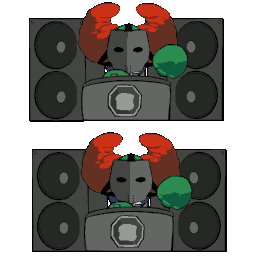
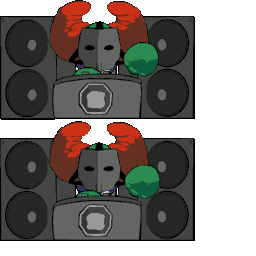
menu ticky

diff --git a/src/character/mticky.c b/src/character/mticky.c
@@ -45,29 +45,29 @@ typedef struct
 
 //MTicky character definitions
 static const CharFrame char_MTicky_frame[] = {
-	{MTicky_ArcMain_Ticky0, {  0,   0, 256, 128}, { 40,  69}}, //0
-	{MTicky_ArcMain_Ticky0, {  0, 128, 256, 128}, { 40,  73}}, //1
-	{MTicky_ArcMain_Ticky1, {  0,   0, 256, 128}, { 40,  69}}, //2 
-	{MTicky_ArcMain_Ticky1, {  0, 128, 256, 128}, { 40,  73}}, //3
-	{MTicky_ArcMain_Ticky2, {  0,   0, 256, 128}, { 40,  69}}, //4
-	{MTicky_ArcMain_Ticky2, {  0, 128, 256, 128}, { 40,  73}}, //5
-	{MTicky_ArcMain_Ticky3, {  0,   0, 256, 128}, { 40,  69}}, //6 
-	{MTicky_ArcMain_Ticky3, {  0, 128, 256, 128}, { 40,  73}}, //7
-	{MTicky_ArcMain_Ticky4, {  0,   0, 256, 128}, { 40,  69}}, //8 
-	{MTicky_ArcMain_Ticky4, {  0, 128, 256, 128}, { 40,  73}}, //9
-	{MTicky_ArcMain_Ticky5, {  0,   0, 256, 128}, { 40,  69}}, //10
-	{MTicky_ArcMain_Ticky5, {  0, 128, 256, 128}, { 40,  73}}, //11
+	{MTicky_ArcMain_Ticky0, {  0,   0, 207, 111}, { 102, 111}}, //0
+	{MTicky_ArcMain_Ticky0, {  0, 112, 200, 113}, { 99, 113}}, //1
+	{MTicky_ArcMain_Ticky1, {  0,   0, 194, 116}, { 96, 116}}, //2 
+	{MTicky_ArcMain_Ticky1, {  0, 117, 195, 118}, { 96, 118}}, //3
+	{MTicky_ArcMain_Ticky2, {  0,   0, 195, 120}, { 96, 120}}, //4
+	{MTicky_ArcMain_Ticky2, {  1, 122, 194, 121}, { 96, 121}}, //5
+	{MTicky_ArcMain_Ticky3, {  0,   0, 195, 122}, { 96, 122}}, //6 
+	{MTicky_ArcMain_Ticky3, {  0, 123, 195, 122}, { 96, 122}}, //7
+	{MTicky_ArcMain_Ticky4, {  0,   0, 195, 122}, { 96, 121}}, //8 
+	{MTicky_ArcMain_Ticky4, {  0, 123, 195, 122}, { 96, 120}}, //9
+	{MTicky_ArcMain_Ticky5, {  0,   0, 195, 114}, { 96, 114}}, //10
+	{MTicky_ArcMain_Ticky5, {  0, 115, 207, 111}, {102, 111}}, //11
 	
-	{MTicky_ArcMain_Ticky6, {  0,   0, 256, 128}, { 40,  69}}, //12 
-	{MTicky_ArcMain_Ticky6, {  0, 128, 256, 128}, { 40,  73}}, //13
-	{MTicky_ArcMain_Ticky7, {  0,   0, 256, 128}, { 40,  69}}, //14
-	{MTicky_ArcMain_Ticky7, {  0, 128, 256, 128}, { 40,  73}}, //15
-	{MTicky_ArcMain_Ticky8, {  0,   0, 256, 128}, { 40,  69}}, //16 
-	{MTicky_ArcMain_Ticky8, {  0, 128, 256, 128}, { 40,  73}}, //17
-	{MTicky_ArcMain_Ticky9, {  0,   0, 256, 128}, { 40,  69}}, //18 
-	{MTicky_ArcMain_Ticky9, {  0, 128, 256, 128}, { 40,  73}}, //19
-	{MTicky_ArcMain_Ticky10, {  0,   0, 256, 128}, { 40,  69}}, //20 
-	{MTicky_ArcMain_Ticky10, {  0, 128, 256, 128}, { 40,  73}}, //21
+	{MTicky_ArcMain_Ticky6, {  0,   0, 201, 113}, { 99, 113}}, //12 
+	{MTicky_ArcMain_Ticky6, {  0, 114, 194, 116}, { 96, 116}}, //13
+	{MTicky_ArcMain_Ticky7, {  0,   0, 195, 120}, { 96, 120}}, //14
+	{MTicky_ArcMain_Ticky7, {  0, 121, 195, 120}, { 96, 120}}, //15
+	{MTicky_ArcMain_Ticky8, {  0,   0, 194, 121}, { 96, 121}}, //16 
+	{MTicky_ArcMain_Ticky8, {  0, 122, 195, 122}, { 96, 122}}, //17
+	{MTicky_ArcMain_Ticky9, {  0,   0, 195, 121}, { 96, 121}}, //18 
+	{MTicky_ArcMain_Ticky9, {  0, 122, 195, 122}, { 96, 122}}, //19
+	{MTicky_ArcMain_Ticky10, {  0,   0, 194, 121}, { 96, 121}}, //20 
+	{MTicky_ArcMain_Ticky10, {  0, 122, 194, 114}, { 96, 114}}, //21
 };
 
 static const Animation char_MTicky_anim[CharAnim_Max] = {

diff --git a/src/menu.c b/src/menu.c
@@ -269,7 +269,7 @@ void Menu_Load(MenuPage page)
 	FontData_Load(&menu.font_bold, Font_Bold);
 	FontData_Load(&menu.font_arial, Font_Arial);
 
-	menu.tricky = Char_MTicky_New(FIXED_DEC(-30, 1), FIXED_DEC(30, 1));
+	menu.tricky = Char_MTicky_New(FIXED_DEC(40, 1), FIXED_DEC(80, 1));
 	stage.camera.x = stage.camera.y = FIXED_DEC(0, 1);
 	stage.camera.bzoom = FIXED_UNIT;
 	stage.MTicky_speed = 4;

diff --git a/src/stage.c b/src/stage.c
@@ -23,7 +23,7 @@
 #include "object/splash.h"
 
 //Stage constants
-//#define STAGE_PERFECT //Play all notes perfectly
+#define STAGE_PERFECT //Play all notes perfectly
 //#define STAGE_NOHUD //Disable the HUD
 
 int shake = 0;
